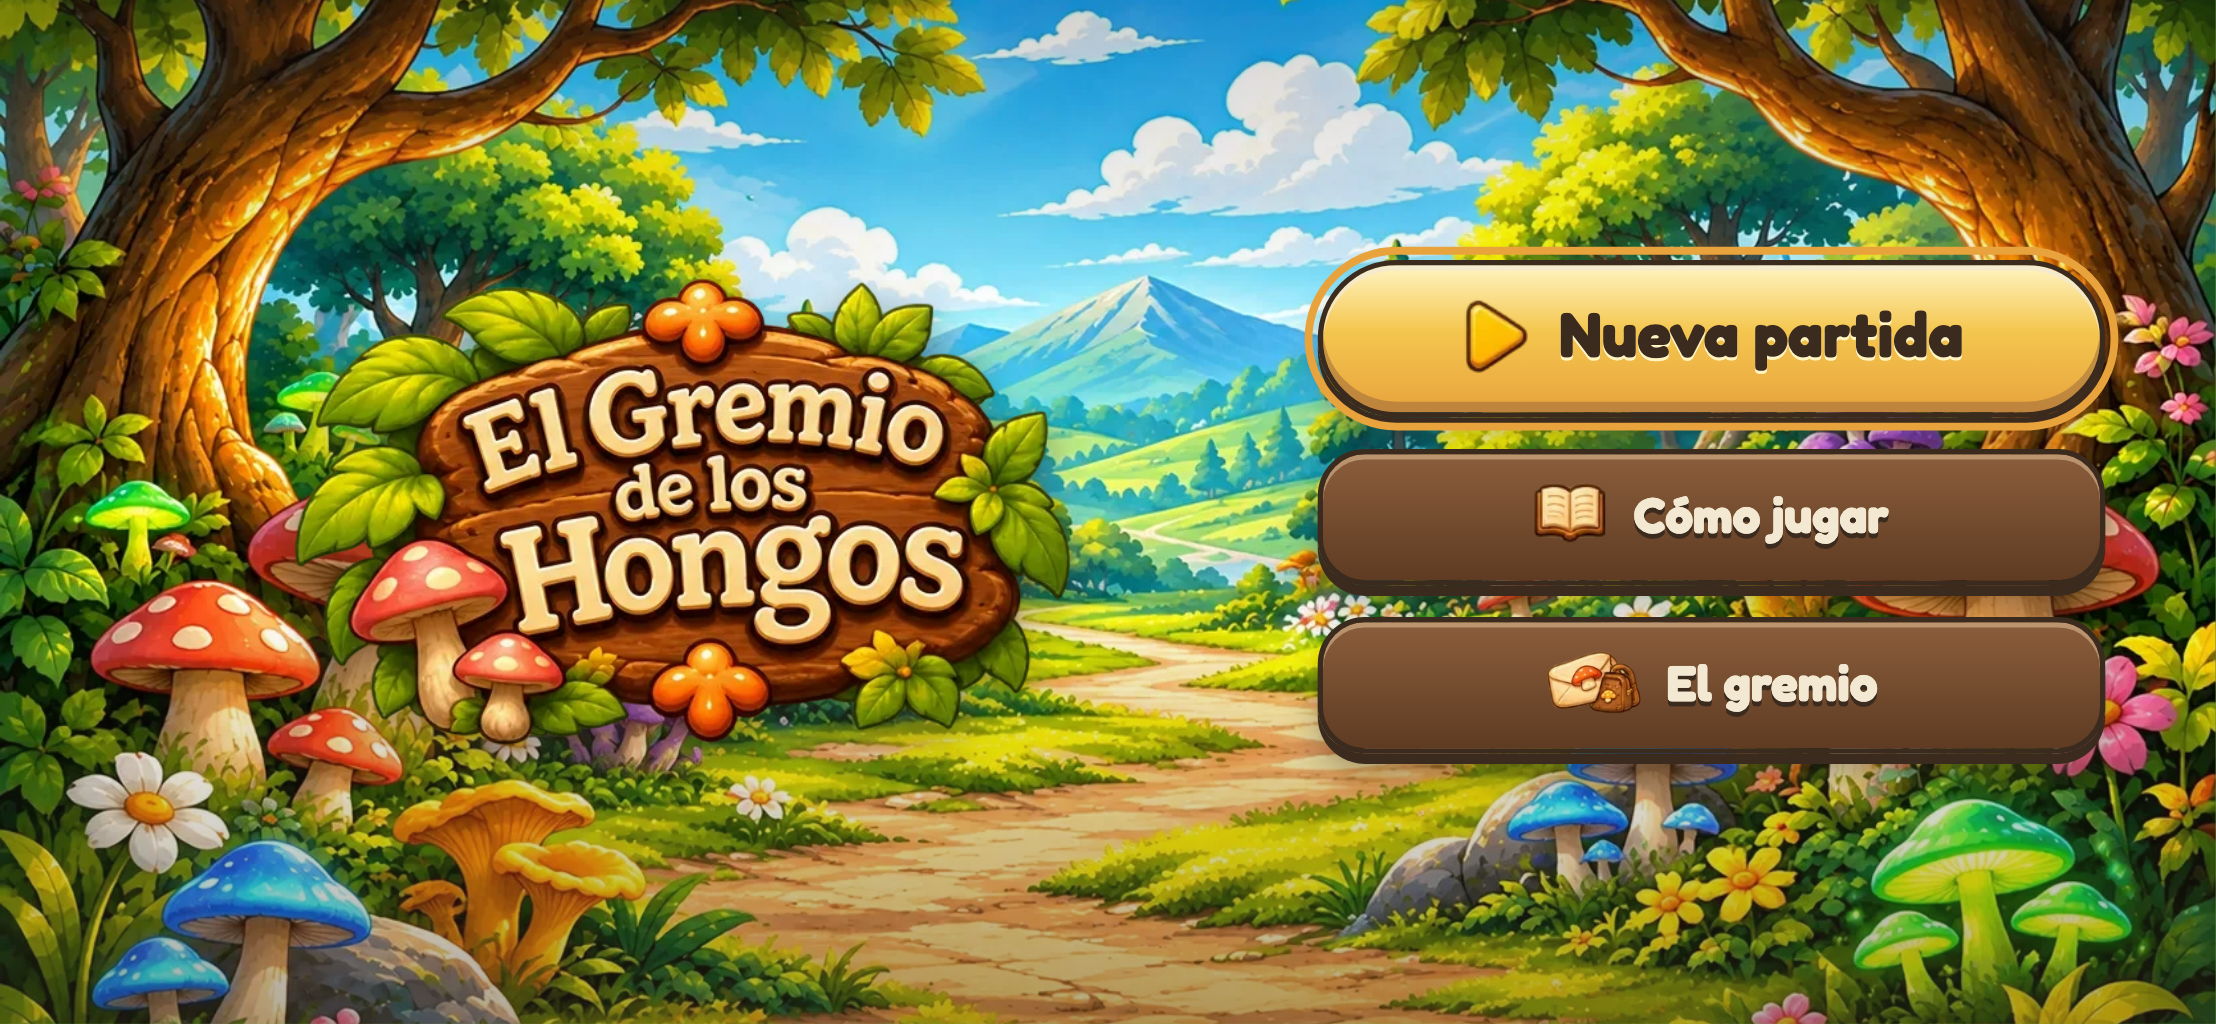
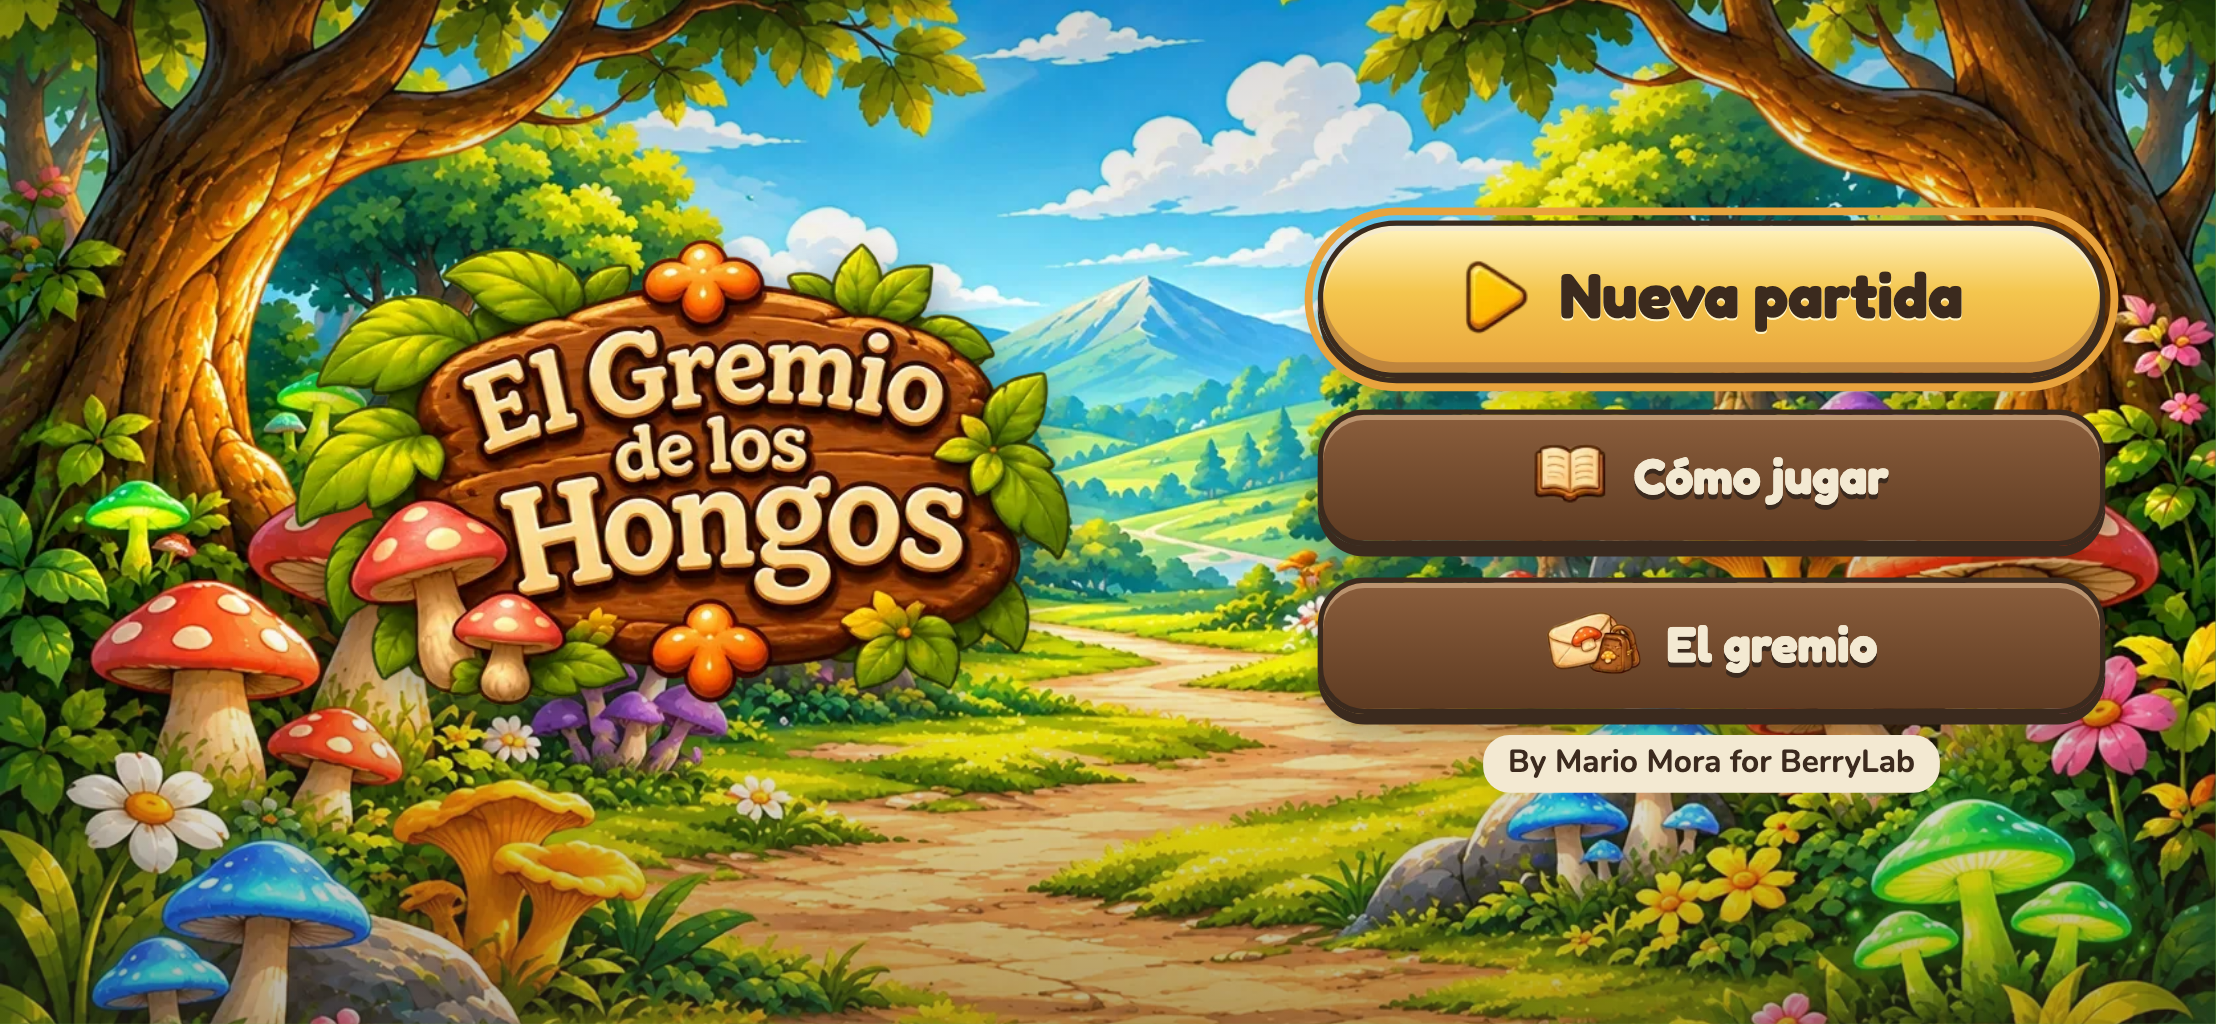
feat(020): crédito del autor en la portada
«By Mario Mora for BerryLab» al pie de la portada, en 12 px, tinta sobre
pergamino sólido (≈ 11:1) para que el contraste no dependa del fondo
pintado. En horizontal va bajo el menú. Prueba de humo que mide el
contraste y que no se superpone al logo ni al menú. Spec fusionada en
title-screens y cambio archivado.

Changed region(s): [[0.5916, 0.1875, 0.9653, 0.7812], [0.1245, 0.2188, 0.4982, 0.75]]

diff --git a/tests/smoke/board.spec.ts b/tests/smoke/board.spec.ts
@@ -600,3 +600,36 @@ test('Puntaje: cronómetro que se pausa con una carta, carta de victoria con est
   expect(errors).toEqual([]);
   await ctx.close();
 });
+
+test('Portada: crédito del autor en letra pequeña, con contraste ≥ 4,5:1 y sin tapar el menú', async ({ page }, info) => {
+  await page.goto('/');
+  const credit = page.locator('#screen .title__credit');
+  await expect(credit).toHaveText('By Mario Mora for BerryLab');
+  await expect(credit).toBeVisible();
+  // Contraste WCAG entre el color del texto y el fondo sólido de la pastilla.
+  const ratio = await credit.evaluate((n) => {
+    const rgb = (c: string) => c.match(/[\d.]+/g)!.slice(0, 3).map(Number);
+    const lum = ([r, g, b]: number[]) => {
+      const f = (v: number) => ((v /= 255) <= 0.03928 ? v / 12.92 : ((v + 0.055) / 1.055) ** 2.4);
+      return 0.2126 * f(r!) + 0.7152 * f(g!) + 0.0722 * f(b!);
+    };
+    const st = getComputedStyle(n);
+    const [a, b] = [lum(rgb(st.color)), lum(rgb(st.backgroundColor))].sort((x, y) => y - x);
+    // El fondo debe ser sólido: con transparencia, el contraste dependería del fondo pintado.
+    return { ratio: (a! + 0.05) / (b! + 0.05), size: parseFloat(st.fontSize), opaque: !st.backgroundColor.startsWith('rgba') };
+  });
+  expect(ratio.ratio).toBeGreaterThanOrEqual(4.5);
+  expect(ratio.size).toBeLessThanOrEqual(12);
+  expect(ratio.opaque).toBe(true);
+  // No se superpone al menú ni al logo, y entra en la ventana.
+  const box = (await credit.boundingBox())!;
+  const vp = page.viewportSize()!;
+  expect(box.y + box.height).toBeLessThanOrEqual(vp.height);
+  for (const sel of ['.title__menu', '.title__logo']) {
+    const o = (await page.locator(`#screen ${sel}`).boundingBox())!;
+    const overlap = box.x < o.x + o.width && o.x < box.x + box.width && box.y < o.y + o.height && o.y < box.y + box.height;
+    expect(overlap, sel).toBe(false);
+  }
+  await noScrollNoZoom(page);
+  if (info.project.name === 'vertical-390x844' || info.project.name === 'horizontal-844x390') await page.screenshot({ path: `docs/screenshots/020-credito-${info.project.name}.png` });
+});

diff --git a/src/ui/screens.ts b/src/ui/screens.ts
@@ -55,14 +55,15 @@ export function mountScreens(root: HTMLElement, store: Store) {
       el('button', { class: 'round-btn round-btn--back', type: 'button', 'data-action': 'back', 'aria-label': es.howto.back }),
       el('h1', { class: 'screen__title', id: 'screen-title' }, title));
 
-  // Portada limpia (018): solo el logo y el menú; el gremio se presenta en la intro y en "El gremio".
+  // Portada limpia (018): solo el logo, el menú y la firma (020); el gremio se presenta en la intro y en "El gremio".
   function title() {
     return el('div', { class: 'title' },
       el('h1', { class: 'title__logo' }, img(SCREEN_ART.logo, 'title__logo-img'), el('span', { class: 'sr-only' }, es.title)),
       el('nav', { class: 'title__menu', 'aria-label': es.titleScreen.label },
         el('button', { class: 'menu-btn menu-btn--primary', type: 'button', 'data-action': 'play' }, el('span', { class: 'menu-btn__icon menu-btn__icon--play', 'aria-hidden': 'true' }), es.titleScreen.play),
         el('button', { class: 'menu-btn', type: 'button', 'data-action': 'howto' }, el('span', { class: 'menu-btn__icon menu-btn__icon--book', 'aria-hidden': 'true' }), es.titleScreen.howto),
-        el('button', { class: 'menu-btn', type: 'button', 'data-action': 'guild' }, el('span', { class: 'menu-btn__icon menu-btn__icon--guild', 'aria-hidden': 'true' }), es.titleScreen.guild)));
+        el('button', { class: 'menu-btn', type: 'button', 'data-action': 'guild' }, el('span', { class: 'menu-btn__icon menu-btn__icon--guild', 'aria-hidden': 'true' }), es.titleScreen.guild)),
+      el('p', { class: 'title__credit', lang: 'en' }, es.titleScreen.credit));
   }
 
   function howto(screen: Extract<Screen, { kind: 'howto' }>) {

diff --git a/src/styles.css b/src/styles.css
@@ -690,6 +690,8 @@ button { font: inherit; color: inherit; }
 .title__logo { margin: 4px 0 0; width: min(330px, 86%); }
 .title__logo-img { width: 100%; height: auto; display: block; filter: drop-shadow(0 6px 8px color-mix(in srgb, var(--ink) 45%, transparent)); }
 .title__menu { width: min(300px, 100%); display: grid; gap: 12px; margin-bottom: 8px; }
+/* Firma (020): letra pequeña sobre pergamino sólido, así el contraste no depende del fondo pintado (Tinta/Pergamino ≈ 11:1). */
+.title__credit { margin: -4px 0 4px; padding: 3px 10px; font-size: 12px; font-weight: 700; line-height: 1.3; color: var(--ink); background: var(--paper); border-radius: 10px; }
 /* Cómo jugar */
 .howto { display: grid; gap: 14px; }
 .howto__card {
@@ -792,6 +794,7 @@ button { font: inherit; color: inherit; }
   .title { display: grid; grid-template-columns: 1fr minmax(240px, 300px); grid-template-rows: auto; align-content: center; align-items: center; column-gap: 24px; row-gap: 4px; width: min(760px, 100%); }
   .title__logo { grid-column: 1; width: min(300px, 100%); justify-self: center; }
   .title__menu { grid-column: 2; margin: 0; }
+  .title__credit { grid-column: 2; justify-self: center; margin: 4px 0 0; }
   .screen__panel { width: min(760px, 100%); gap: 8px; }
   .screen__head { min-height: 48px; }
   .howto { grid-template-columns: minmax(0, 1.25fr) minmax(0, 1fr); grid-template-rows: 1fr auto; column-gap: 16px; row-gap: 10px; align-items: center; }

diff --git a/src/copy/es.ts b/src/copy/es.ts
@@ -192,6 +192,8 @@ export const es = {
     play: 'Nueva partida',
     howto: 'Cómo jugar',
     guild: 'El gremio',
+    /** Firma del autor (020): va tal cual, en inglés. */
+    credit: 'By Mario Mora for BerryLab',
   },
 
   howto: {

diff --git a/openspec/specs/title-screens/spec.md b/openspec/specs/title-screens/spec.md
@@ -35,3 +35,15 @@ Al abrir el juego sin `?map`, `?seed` ni `?debugState`, el juego SHALL mostrar l
 #### Scenario: Esc en Cómo jugar
 - WHEN el jugador abre "Cómo jugar" desde la portada y pulsa Esc
 - THEN vuelve a la portada
+
+### Requirement: Crédito del autor
+La portada SHALL mostrar abajo, en letra pequeña (12 px), la línea «By Mario Mora for BerryLab». El texto SHALL tener un contraste de al menos 4,5:1 con su fondo inmediato, que es sólido (no depende del fondo pintado), y no SHALL tapar el logo ni el menú en vertical ni en horizontal. La línea no es un control: no recibe el foco.
+
+#### Scenario: Ver el crédito
+- WHEN el jugador abre el sitio
+- THEN la portada muestra «By Mario Mora for BerryLab» debajo del menú
+- AND el contraste entre el texto y su fondo es de al menos 4,5:1
+
+#### Scenario: Portada en horizontal
+- WHEN se abre la portada a 844 × 390
+- THEN el crédito se ve completo y no se superpone al logo ni al menú, y la página no hace scroll

diff --git a/openspec/changes/archive/020-credit-line/specs/title-screens/spec.md b/openspec/changes/archive/020-credit-line/specs/title-screens/spec.md
@@ -1,0 +1,15 @@
+# Delta · title-screens
+
+## ADDED Requirements
+
+### Requirement: Crédito del autor
+La portada SHALL mostrar abajo, en letra pequeña (12 px), la línea «By Mario Mora for BerryLab». El texto SHALL tener un contraste de al menos 4,5:1 con su fondo inmediato, que es sólido (no depende del fondo pintado), y no SHALL tapar el logo ni el menú en vertical ni en horizontal. La línea no es un control: no recibe el foco.
+
+#### Scenario: Ver el crédito
+- WHEN el jugador abre el sitio
+- THEN la portada muestra «By Mario Mora for BerryLab» debajo del menú
+- AND el contraste entre el texto y su fondo es de al menos 4,5:1
+
+#### Scenario: Portada en horizontal
+- WHEN se abre la portada a 844 × 390
+- THEN el crédito se ve completo y no se superpone al logo ni al menú, y la página no hace scroll

diff --git a/openspec/changes/archive/020-credit-line/proposal.md b/openspec/changes/archive/020-credit-line/proposal.md
@@ -1,0 +1,11 @@
+# 020 · Crédito del autor en la portada
+
+## Por qué
+El juego se publica como pieza del portafolio y necesita la firma del autor y del laboratorio, visible pero discreta.
+
+## Qué cambia
+- La portada muestra, abajo y en letra pequeña, «By Mario Mora for BerryLab» (texto pedido tal cual, en inglés: es una firma, no texto del juego).
+- La línea va sobre una pastilla de pergamino sólida para cumplir contraste AA sobre el fondo pintado (Tinta sobre Pergamino ≈ 11:1).
+
+## Fuera de alcance
+- Enlaces a BerryLab o al portafolio, y el crédito dentro de la partida o en las cartas.

diff --git a/openspec/changes/archive/020-credit-line/tasks.md b/openspec/changes/archive/020-credit-line/tasks.md
@@ -1,0 +1,6 @@
+# Tareas · 020
+
+- [x] 1.1 `es.ts › titleScreen.credit` y la línea en `screens.ts › title()`, abajo de la portada
+- [x] 1.2 Estilo en `styles.css`: 12 px, Tinta sobre Pergamino sólido (≥ 4,5:1), sin tapar el menú en vertical ni en horizontal
+- [x] 1.3 Humo: la portada muestra el crédito y su contraste es ≥ 4,5:1; capturas a 390 × 844 y 844 × 390
+- [x] 1.4 Spec fusionada en `openspec/specs/title-screens` y cambio archivado
